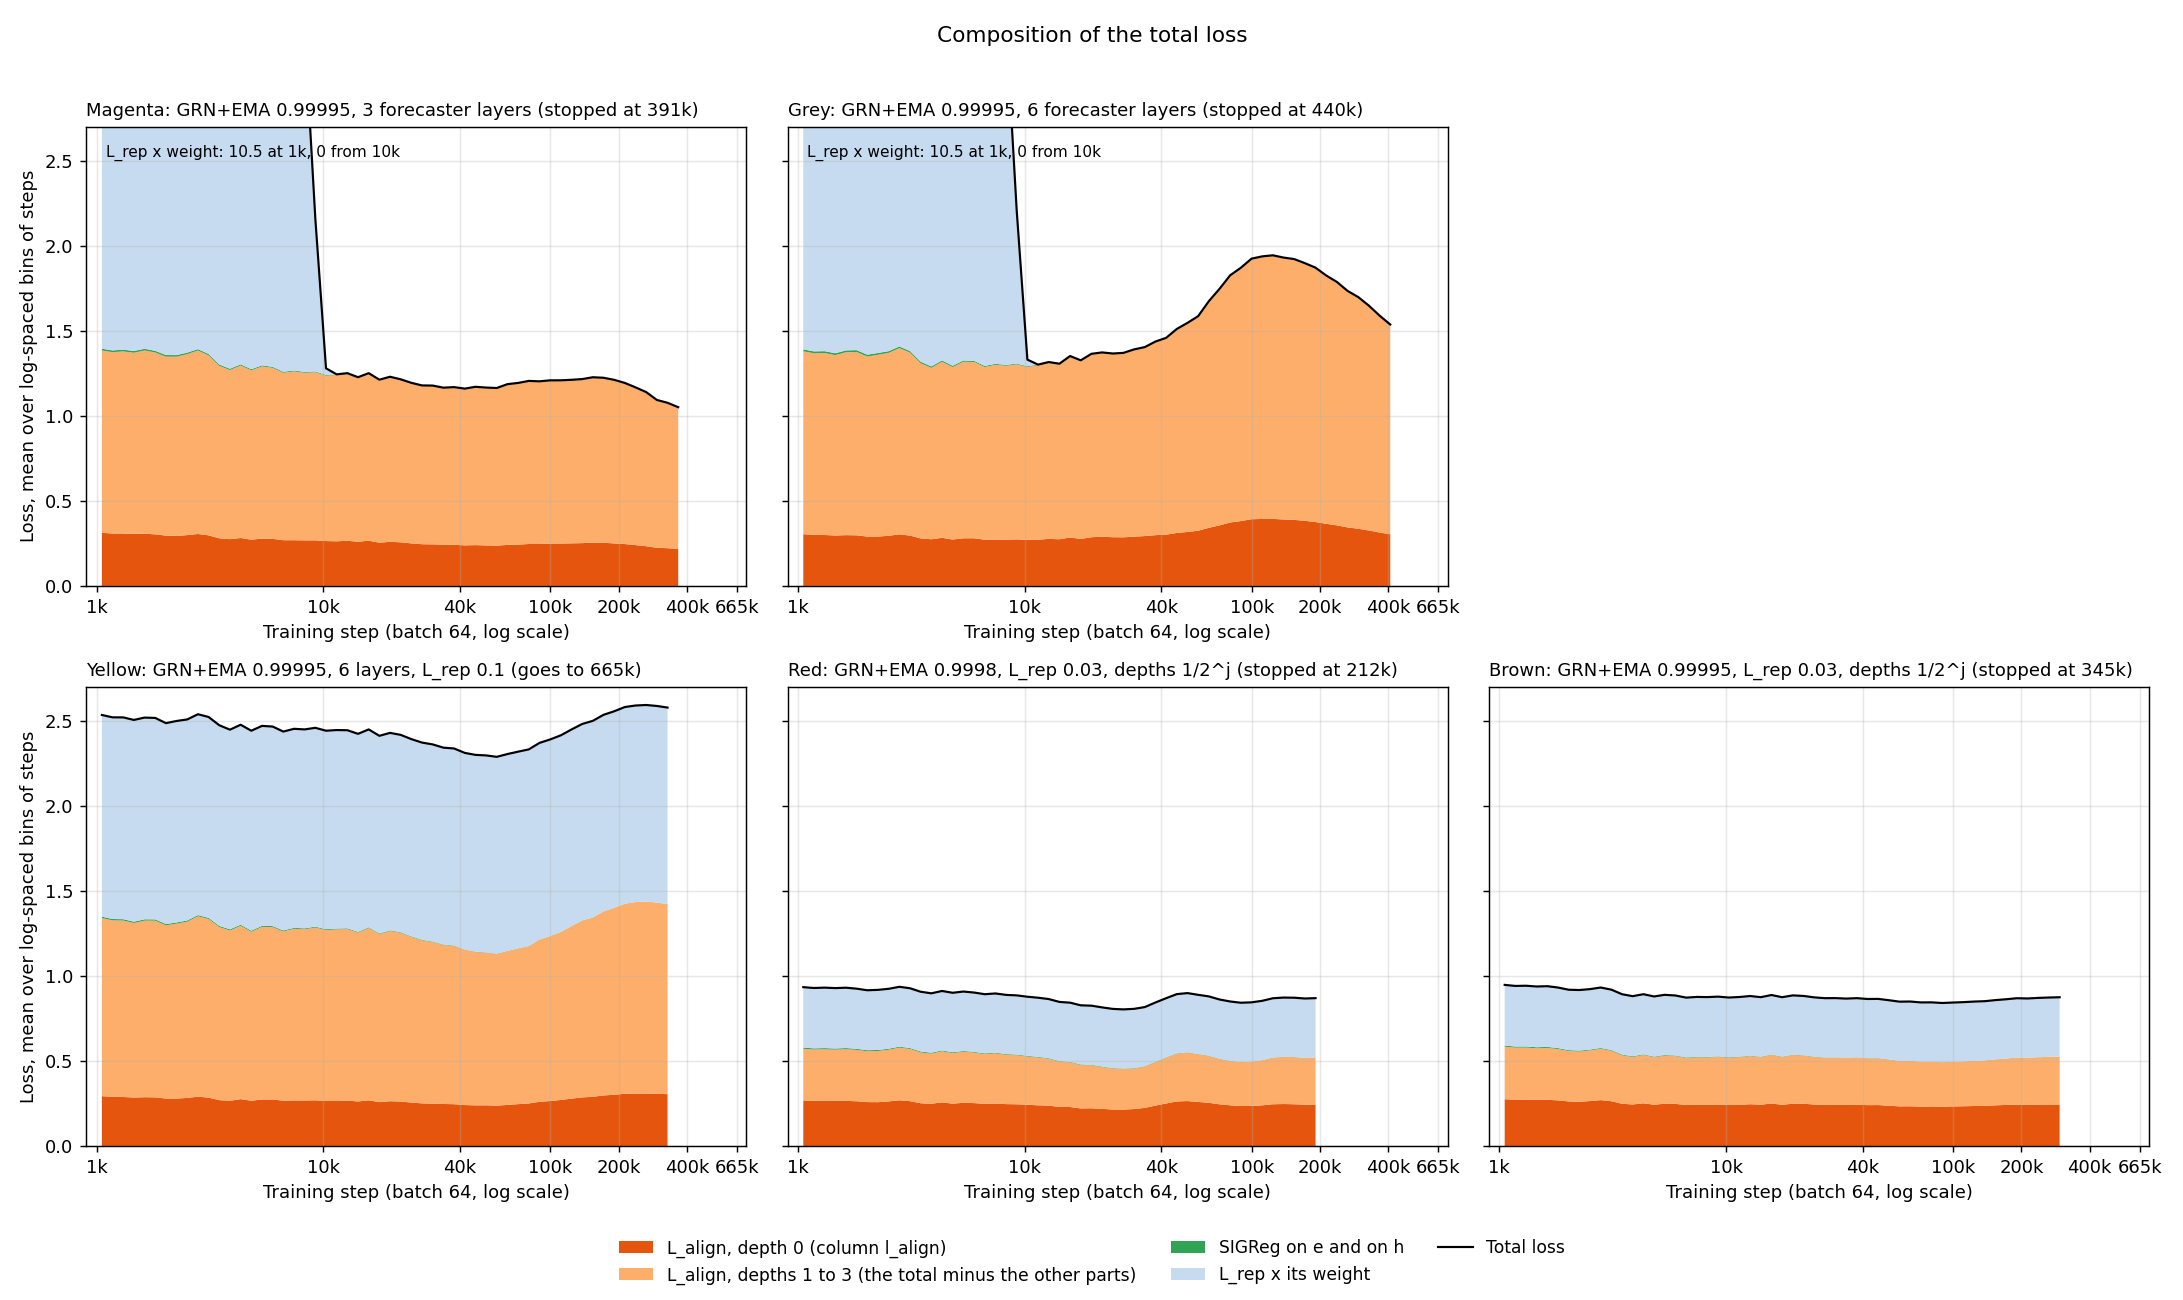
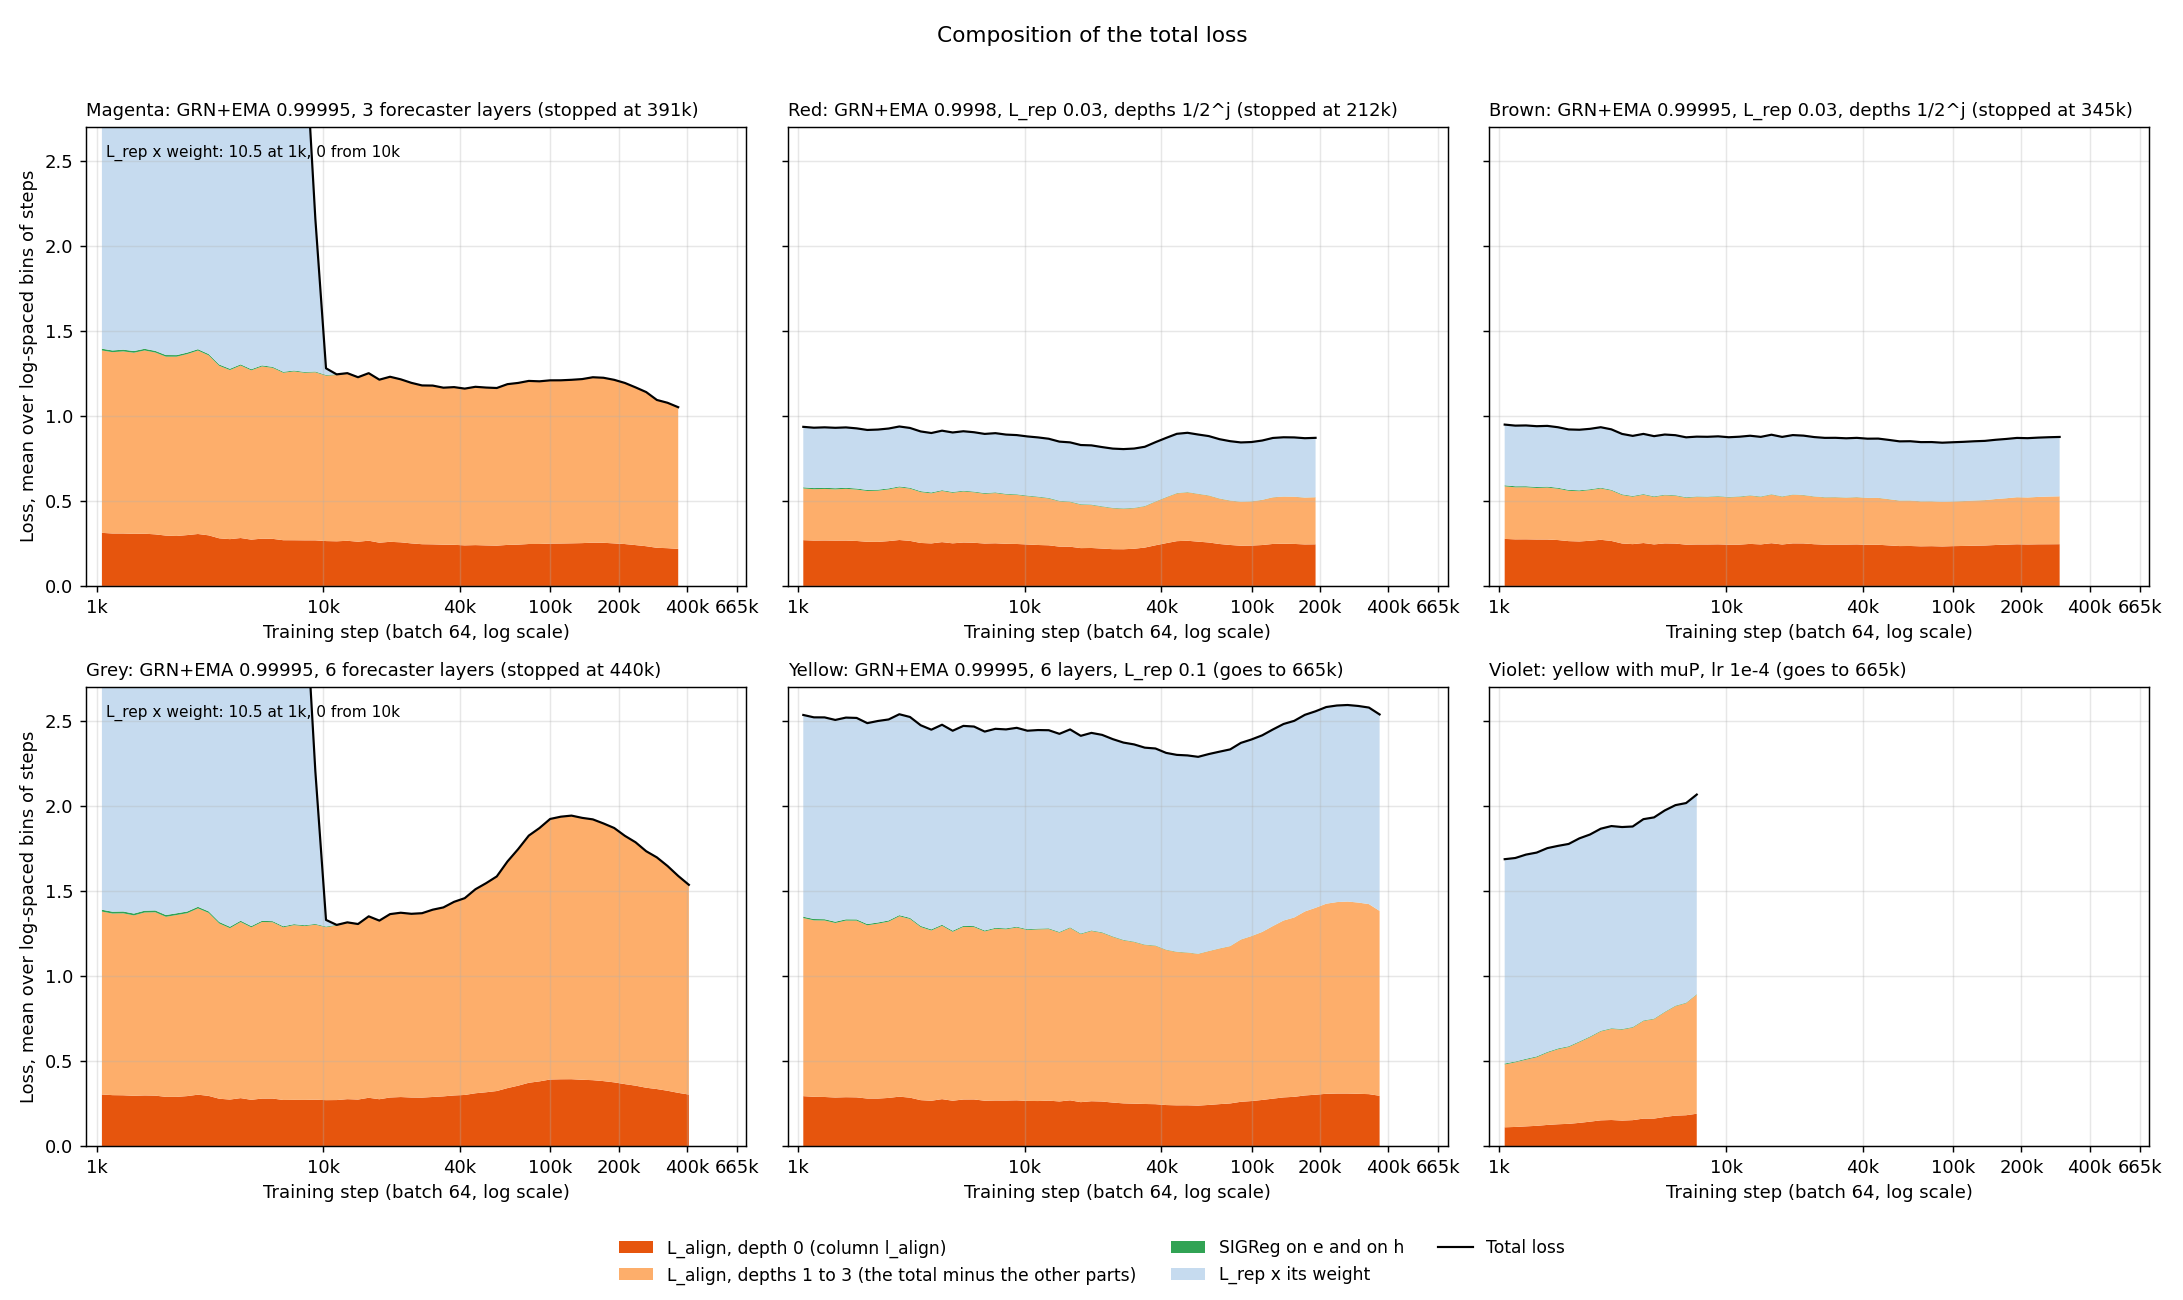
freq_family report: the loss composition with violet (yellow with muP) and yellow to 400k; rows by forecaster depth

diff --git a/reports/2026-10-10_frequency_family_head/scripts/plot_loss_composition_099995.py b/reports/2026-10-10_frequency_family_head/scripts/plot_loss_composition_099995.py
@@ -1,7 +1,7 @@
 """The parts of the total loss of grn_ema099995 (magenta), grn_ema099995_f6
 (grey, 6 forecaster layers), grn_ema099995_f6_rep01 (yellow),
-grn_ema09998_rep003_halving (red) and grn_ema099995_rep003_halving (brown),
-from their loss files. The colour names are the colours of the runs in the
+grn_ema099995_f6_rep01_mup (violet), grn_ema09998_rep003_halving (red) and
+grn_ema099995_rep003_halving (brown), from their loss files. The colour names are the colours of the runs in the
 score figure.
 
 Magenta and grey have the same loss flags: --loss-shape
@@ -9,7 +9,9 @@ cosine_similarity_batch_rep_only, L_rep with a weight from 1 to 0 over the
 first 10,000 steps, L_align on the teacher latent with rollout depth 3 and the
 sum of the 4 depths, SIGReg on e and on h with weight 1.0, CPC off (the
 column cpc_aux is blank). Yellow has the flags of grey with the L_rep weight
-0.1 at each step. Red has the flags of magenta with the EMA 0.9998, the L_rep
+0.1 at each step. Violet has the flags of yellow with muP from the muP grid
+(base width 64, base layers 3 + 3, output factor 0, input factor 0.3) and the
+lr 1e-4. Red has the flags of magenta with the EMA 0.9998, the L_rep
 weight 0.03 at each step, and --train-rollout-reduce halving: the L_align of
 depth j at the weight 1 / 2^j. Brown has the flags of red with the EMA
 0.99995 of magenta. So the column `loss` is the sum of:
@@ -23,8 +25,8 @@ depth j at the weight 1 / 2^j. Brown has the flags of red with the EMA
 Each value is the mean over log-spaced bins of steps (BINS bins from 1k to
 665k), drawn only when the run logged all the steps of the bin. Writes
 results/loss_parts_099995_binned.tsv and plots/loss_composition_099995.png
-(the stacked parts of each run: the runs with the L_rep weight 1 to 0 by 10k
-in the first row, the runs with an L_rep weight at each step in the second).
+(the stacked parts of each run: the runs with 3 forecaster layers in the
+first row, the runs with 6 forecaster layers in the second).
 
 Usage: python3 plot_loss_composition_099995.py
 """
@@ -57,6 +59,9 @@ RUNS = {
                                 (MINI_DIR / "grn_ema099995_f6_rep01_r3_losses.csv", 240_000),
                                 (MINI_DIR / "grn_ema099995_f6_rep01_r4_losses.csv", None)],
                                "#ffb000", "Yellow: GRN+EMA 0.99995, 6 layers, L_rep 0.1 (goes to 665k)"),
+    "grn_ema099995_f6_rep01_mup": (
+        [(RUNS_DIR / "grn_ema099995_f6_rep01_mup/ckpt/grn_ema099995_f6_rep01_mup_losses.csv", None)],
+        "#8a2be2", "Violet: yellow with muP, lr 1e-4 (goes to 665k)"),
     "grn_ema09998_rep003_halving": (
         [(RUNS_DIR / "grn_ema09998_rep003_halving/ckpt/grn_ema09998_rep003_halving_losses.csv",
           160_000),
@@ -71,9 +76,9 @@ RUNS = {
         "#8c564b", "Brown: GRN+EMA 0.99995, L_rep 0.03, depths 1/2^j (stopped at 345k)"),
 }
 # run -> (row, column) of its panel
-PANEL = {"grn_ema099995": (0, 0), "grn_ema099995_f6": (0, 1),
-         "grn_ema099995_f6_rep01": (1, 0), "grn_ema09998_rep003_halving": (1, 1),
-         "grn_ema099995_rep003_halving": (1, 2)}
+PANEL = {"grn_ema099995": (0, 0), "grn_ema09998_rep003_halving": (0, 1),
+         "grn_ema099995_rep003_halving": (0, 2), "grn_ema099995_f6": (1, 0),
+         "grn_ema099995_f6_rep01": (1, 1), "grn_ema099995_f6_rep01_mup": (1, 2)}
 PARTS = ["align_d0", "align_rest", "sigreg", "rep"]
 # part -> (colour, label) of the stacked areas, from the bottom up
 PART_STYLE = {
